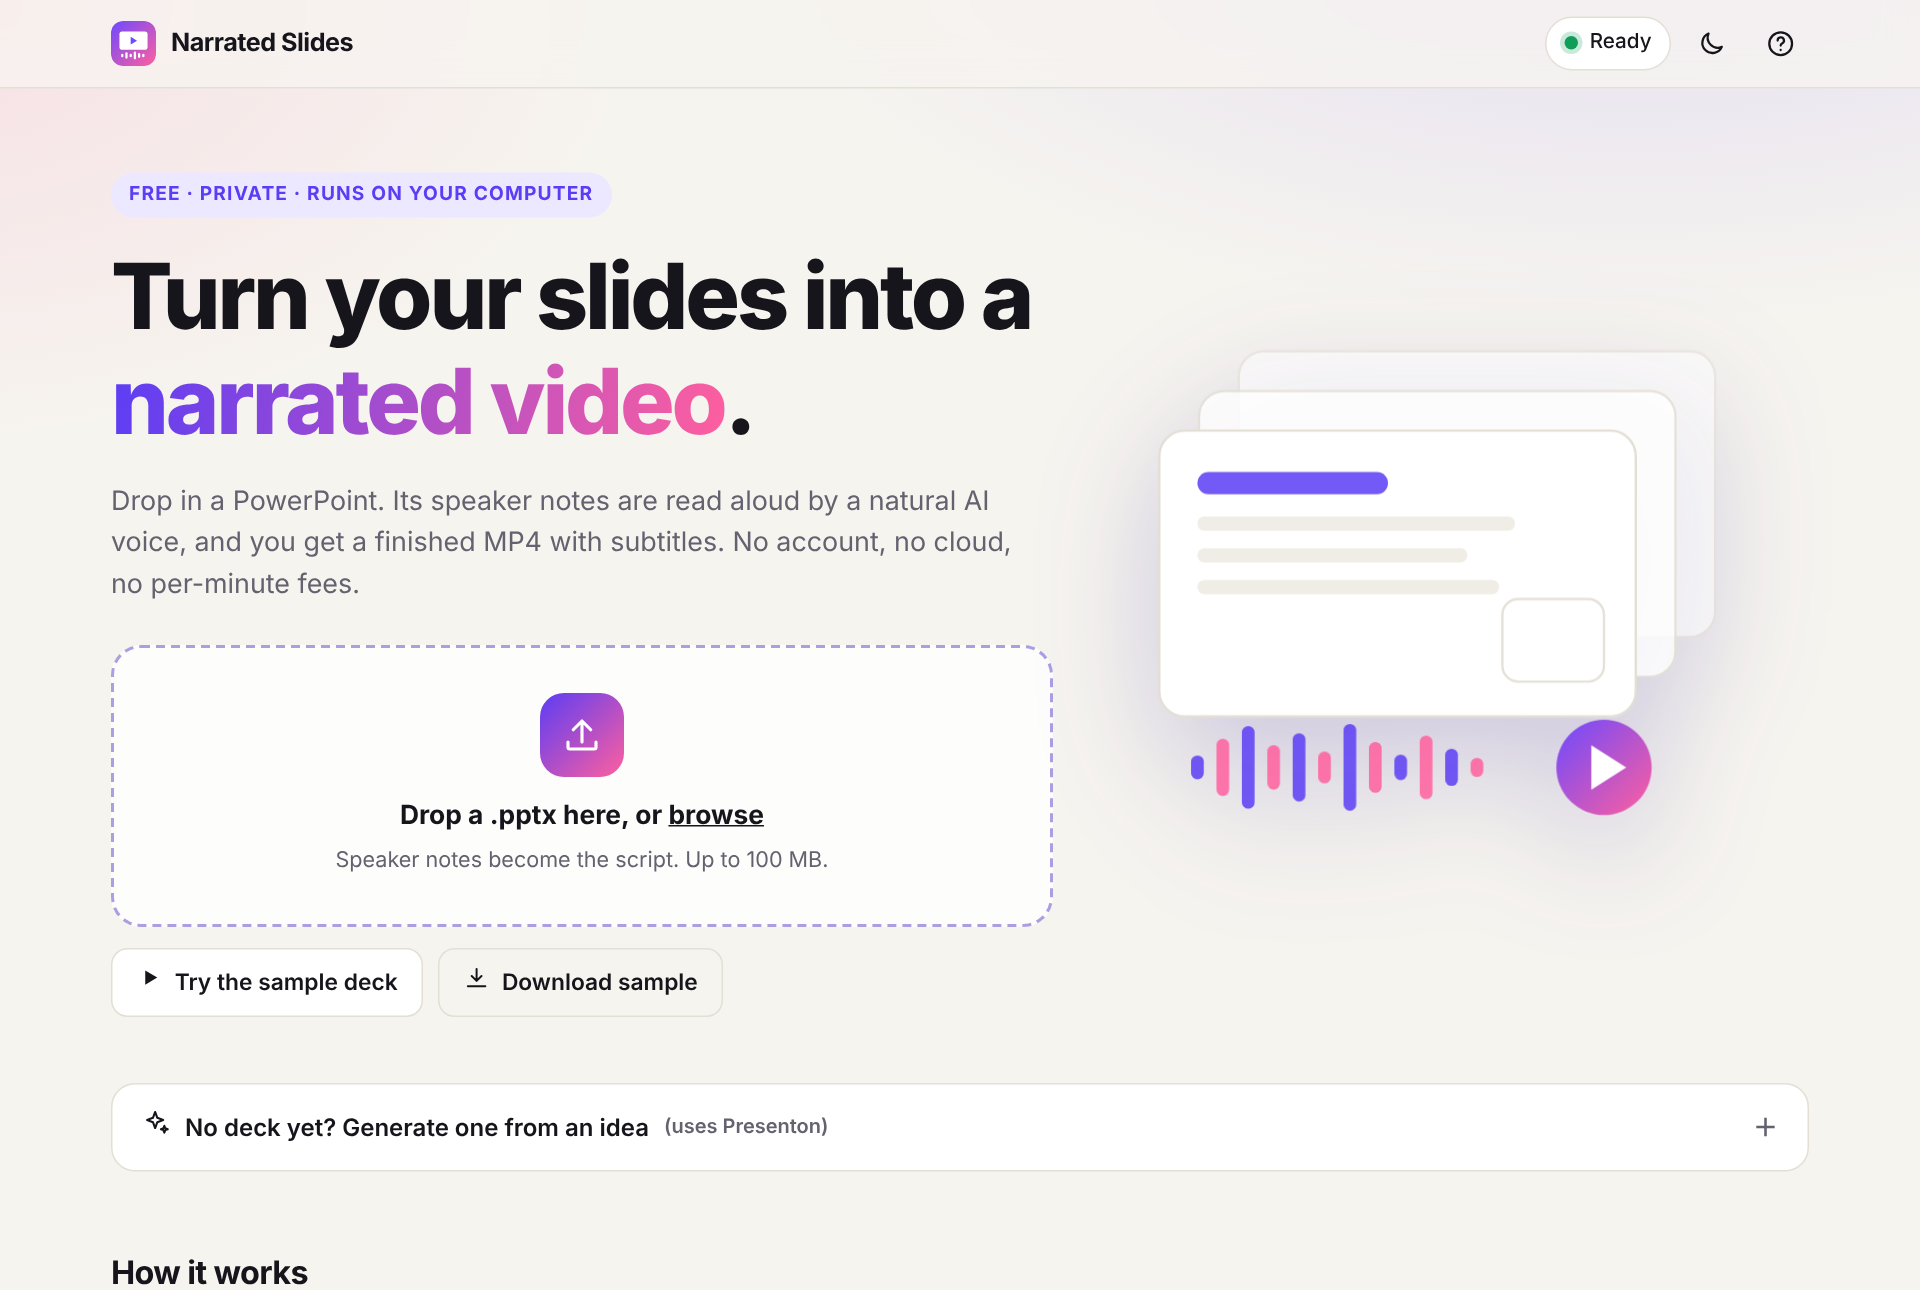
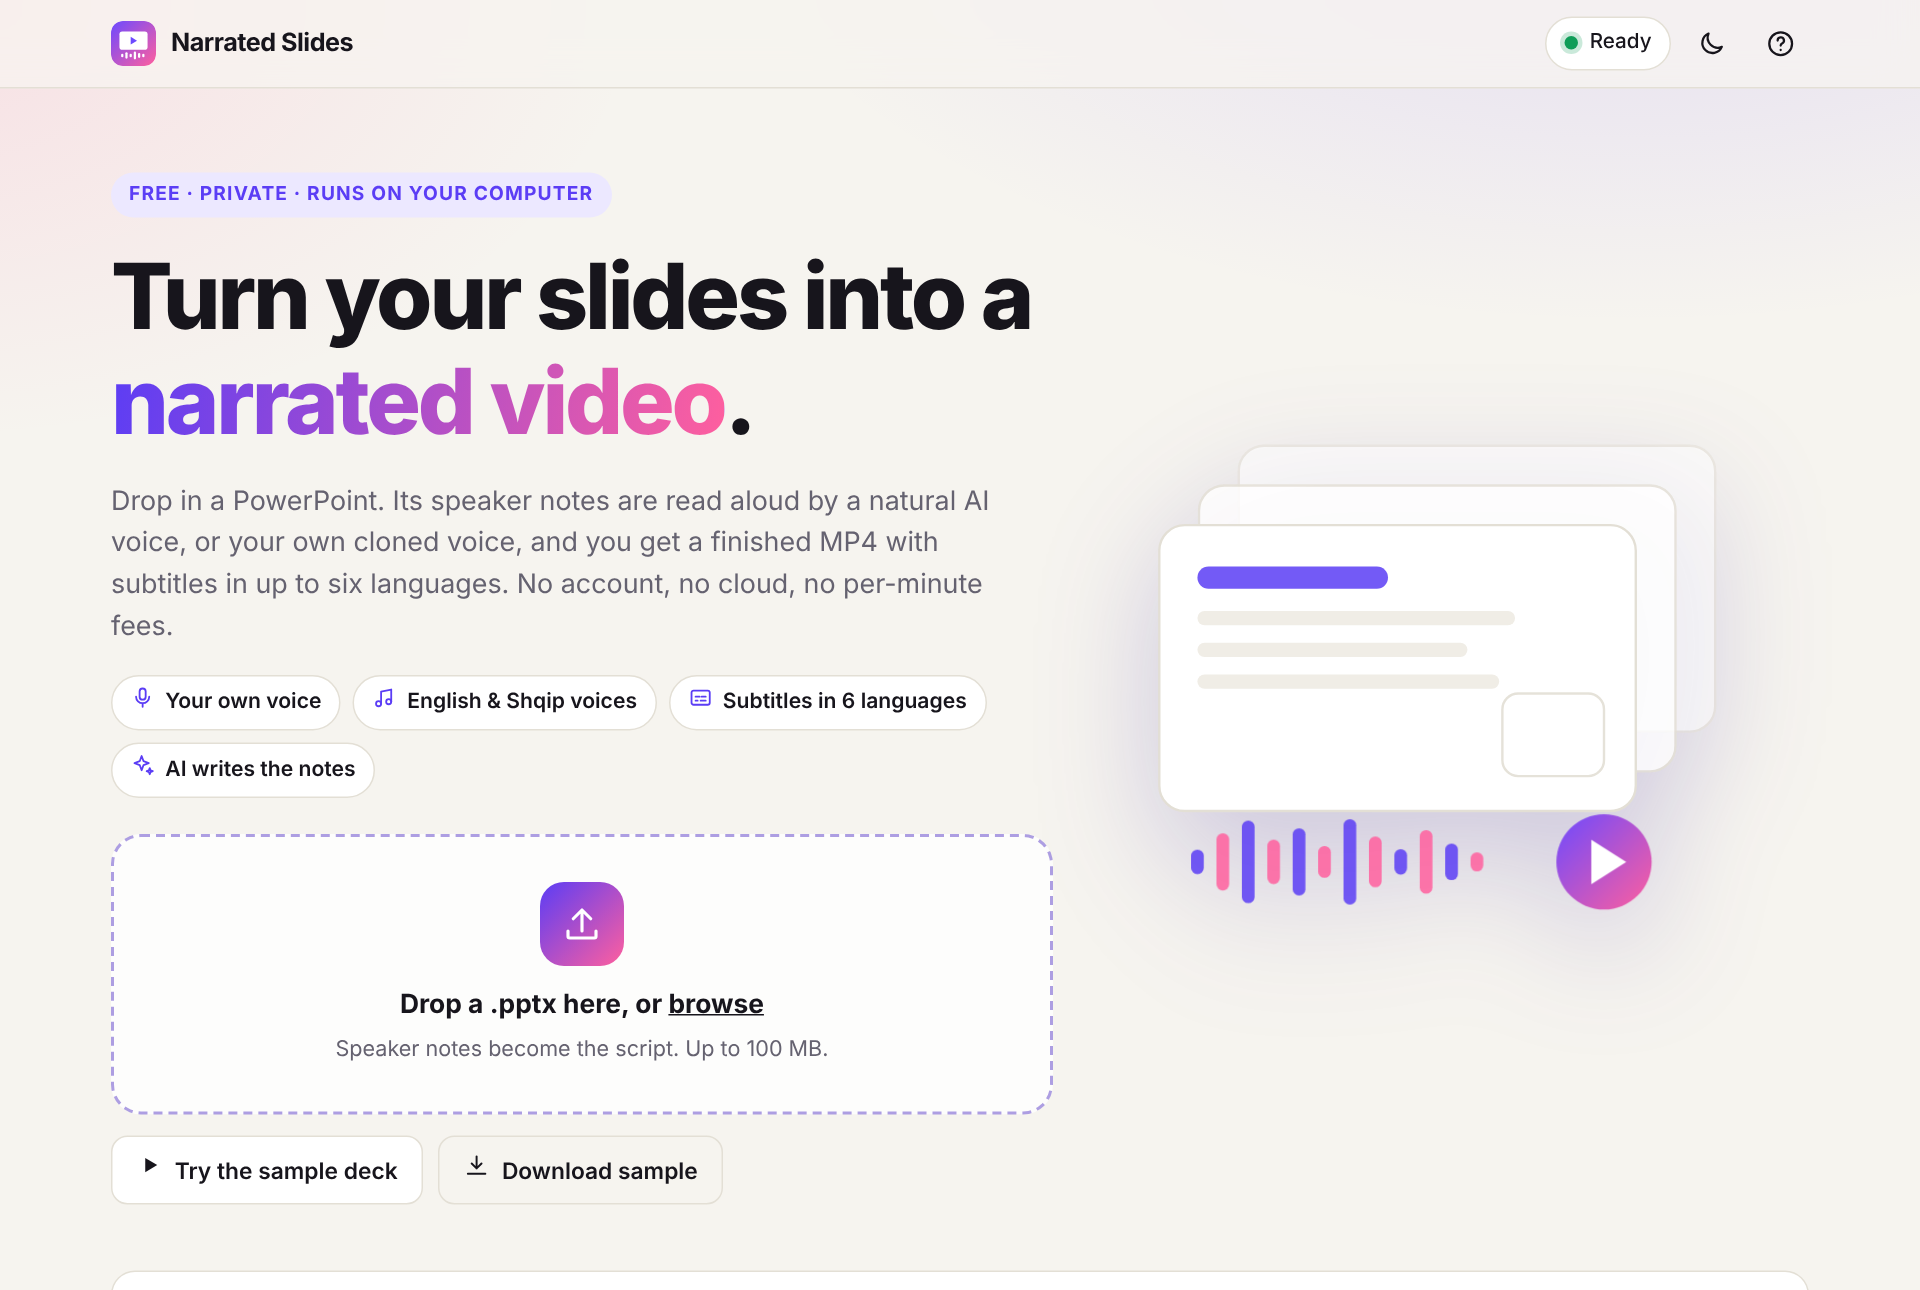
Home page and README: show own voice, Albanian voices and 6-language subtitles; refresh screenshots
Claude-Session: https://claude.ai/code/session_0135T5ESwNb3riy58oikaZuq

diff --git a/narrator/app/static/index.html b/narrator/app/static/index.html
@@ -50,7 +50,13 @@
         <div class="hero-copy">
           <p class="eyebrow">Free · private · runs on your computer</p>
           <h1>Turn your slides into a <span class="grad">narrated video</span>.</h1>
-          <p class="lead">Drop in a PowerPoint. Its speaker notes are read aloud by a natural AI voice, and you get a finished MP4 with subtitles. No account, no cloud, no per-minute fees.</p>
+          <p class="lead">Drop in a PowerPoint. Its speaker notes are read aloud by a natural AI voice, or your own cloned voice, and you get a finished MP4 with subtitles in up to six languages. No account, no cloud, no per-minute fees.</p>
+          <ul class="feature-pills" aria-label="Highlights">
+            <li><span data-icon="mic"></span>Your own voice</li>
+            <li><span data-icon="audio"></span>English &amp; Shqip voices</li>
+            <li><span data-icon="subtitles"></span>Subtitles in 6 languages</li>
+            <li><span data-icon="sparkles"></span>AI writes the notes</li>
+          </ul>
 
           <div id="drop-wrap">
             <label class="drop" id="drop" tabindex="0" role="button" aria-describedby="drop-hint">
@@ -129,8 +135,8 @@
         <h2 id="how-h">How it works</h2>
         <ol class="how-grid">
           <li><span class="how-n">1</span><span class="how-ico" data-icon="deck" data-size="22"></span><h3>Bring a deck</h3><p>Upload a PowerPoint, or generate one from a prompt. Hidden slides are skipped.</p></li>
-          <li><span class="how-n">2</span><span class="how-ico" data-icon="edit" data-size="22"></span><h3>Write the script</h3><p>Edit each slide's notes. Let a local AI draft the empty ones, and hear any slide before you commit.</p></li>
-          <li><span class="how-n">3</span><span class="how-ico" data-icon="film" data-size="22"></span><h3>Export</h3><p>Pick a voice and speed. Download an MP4, subtitles, per-slide audio, or the deck with its notes filled in.</p></li>
+          <li><span class="how-n">2</span><span class="how-ico" data-icon="edit" data-size="22"></span><h3>Write the script</h3><p>Edit each slide's notes. Let a local AI draft the empty ones (in English or Albanian), and hear any slide before you commit.</p></li>
+          <li><span class="how-n">3</span><span class="how-ico" data-icon="film" data-size="22"></span><h3>Export</h3><p>Pick a voice, or record your own in 10 seconds. Add subtitles in English, Shqip, Italiano, Português, Norsk or Türkçe, then download the MP4.</p></li>
         </ol>
       </section>
 
@@ -167,7 +173,7 @@
         <li><strong>Add a deck.</strong> Drop a <code>.pptx</code> on the home page, or press <em>Try the sample deck</em>.</li>
         <li><strong>Write the script.</strong> Whatever is in a slide's speaker notes is what gets spoken. Edit it in the box under the slide. Changes save automatically.</li>
         <li><strong>Hear it.</strong> <em>Preview voice</em> plays the current slide's notes. Slides with no notes stay silent for a few seconds.</li>
-        <li><strong>Export.</strong> Choose a voice and speed, then <em>Create narrated video</em>. Download the MP4 when it finishes.</li>
+        <li><strong>Export.</strong> Choose a voice and speed (or press <em>My voice</em> to record and use your own), tick any subtitle languages, then <em>Create narrated video</em>. Download the MP4 when it finishes.</li>
         <li><strong>Want to change a slide's design?</strong> Edit the deck in PowerPoint or Keynote, upload it again, and your video is rebuilt in minutes. <em>Deck with notes</em> in the export step gives you the file with your final notes inside.</li>
       </ol>
       <h3>Keyboard shortcuts</h3>

diff --git a/narrator/app/static/style.css b/narrator/app/static/style.css
@@ -319,3 +319,7 @@ dialog::backdrop { background: rgba(10, 8, 18, .55); backdrop-filter: blur(3px);
 .consent input { margin-top: 3px; width: 18px; height: 18px; accent-color: var(--accent); flex: none; }
 .myv-actions { margin-top: 16px; display: flex; justify-content: flex-end; }
 .small { font-size: .82rem; margin-top: 12px; }
+
+.feature-pills { list-style: none; padding: 0; margin: -8px 0 24px; display: flex; flex-wrap: wrap; gap: 8px; }
+.feature-pills li { display: inline-flex; align-items: center; gap: 7px; padding: 6px 12px; border-radius: 999px; background: var(--surface); border: 1px solid var(--line); font-size: .88rem; font-weight: 600; color: var(--ink); }
+.feature-pills svg { color: var(--accent); }

diff --git a/scripts/make_screenshots.py b/scripts/make_screenshots.py
@@ -56,6 +56,7 @@ def main() -> int:
     config.NOTES_LLM_MODEL = "demo-model"
     config.PRESENTON_URL = t._serve(t._presenton_app(deck.read_bytes()))
     config.EXTRA_TTS_BASE_URL = t._serve(t._piper_app()) + "/v1"
+    config.CLONE_TTS_URL = t._serve(t._cloner_app(work / "voices")[0])
     config.SOFFICE_CMD = os.environ.get("TEST_SOFFICE_CMD", "soffice")
     from app.main import app
 
@@ -98,6 +99,8 @@ def main() -> int:
 
         pg.click("text=Voice & export")
         pg.wait_for_selector("#voice")
+        for code in ("sq", "it", "tr"):
+            pg.check(f".chips input[value='{code}']")
         shot(pg, "03-export")
         pg.click("text=Create narrated video")
         pg.wait_for_selector(".done-banner", timeout=240000)

diff --git a/README.md b/README.md
@@ -5,8 +5,8 @@
 ![Docker](https://img.shields.io/badge/runs%20with-Docker-2496ED?logo=docker&logoColor=white)
 ![Self-hosted](https://img.shields.io/badge/self--hosted-100%25%20local-6d4aff)
 
-**Turn a PowerPoint deck into a narrated MP4 video.** Your speaker notes are read aloud by a natural-sounding AI voice,
-and you get the video, subtitles, per-slide audio and an updated deck. Everything runs on your own computer with Docker.
+**Turn a PowerPoint deck into a narrated MP4 video.** Your speaker notes are read aloud by a natural-sounding AI voice
+(or your own cloned voice), and you get the video, subtitles in up to six languages, per-slide audio and an updated deck. Everything runs on your own computer with Docker.
 No account, no cloud, no per-minute fees.
 
 <p align="center">
@@ -40,7 +40,7 @@ No account, no cloud, no per-minute fees.
   <img src="docs/images/02-script.png" alt="Script editor" width="49%">
 </p>
 <p align="center">
-  <img src="docs/images/06-home-dark.png" alt="Dark theme" width="49%">
+  <img src="docs/images/03-export.png" alt="Voice, My voice and subtitle languages" width="49%">
   <img src="docs/images/04-result.png" alt="Finished video and downloads" width="49%">
 </p>
 
